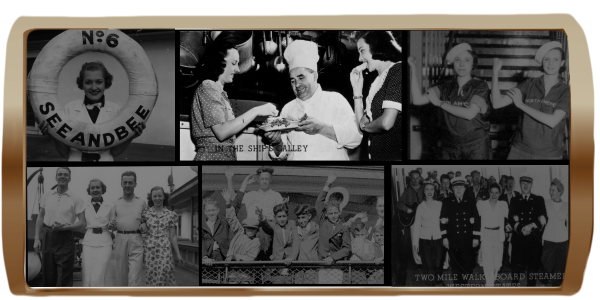
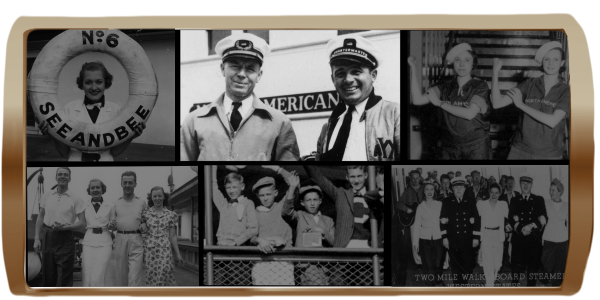
Limited users vs faces in pics, updated gallery images

Changed region(s): [[0.3, 0.09, 0.69, 0.96]]

diff --git a/Resources/JS/selectors.js b/Resources/JS/selectors.js
@@ -10,6 +10,7 @@ var giftshopping = false;
 
 var canvas;
 var data;
+var usersSupported = 3;
 
 //This array holds the filename for each possible image selection
 var previewArr = new Array();
@@ -273,9 +274,6 @@ var draw = function( id ){
 		  hoverClass: "dragAnchor-hover",
 	      drop: function( event, ui ) {
 			$(".ui-draggable-dragging").remove();
-			
-			console.log("draggable:");
-			console.log(ui.draggable);
 			ui.draggable.draggable( 'disable' );
 			
 			$this = $(this);
@@ -285,7 +283,6 @@ var draw = function( id ){
 			var faceID = $(event.target).attr("faceID");
 			
 			var srcID = +$dropped.attr("srcid");
-			console.log("Image with srcID "+srcID+" dropped;");
 			savedPics[srcID].faceID = faceID;
 			settings.request.sources = savedPics;
 			
@@ -396,45 +393,61 @@ var bindNumUsers = function() {
 	$(".numUsersBtn").click(function(e) {
 		switch (phase) {
 			case 1:
-				$("#popup-exterior-id").addClass("glow");
-				setTimeout(function(){
-					$("#popup-exterior-id").removeClass("glow");
-				},120);
-				$(".numUsersBtn").removeClass("selected");
-				$(".numUsersBtn").addClass("notselected");
-				$("#warning").empty().append("Currently only one person can be in each picture, check back soon!");
-
+				//Checks which number of users was clicked, check against capacity of chosen photo
+				var pastUsers = users;
 				if ($(this).hasClass("one")) {
-					$( this ).toggleClass("selected");
-					$( this ).removeClass("notselected");
-					$(".numUsersBtn.selected").css("opacity", 1);
-					$(".numUsersBtn.notselected").css("opacity", 0.5);
-					$("#popup-interior-id").empty().prepend("Choose which<br/>photograph you want!");
-					$(".gallery").addClass("lit");
 					users = 1;
 				} else if ($(this).hasClass("two")) {
-					$( this ).toggleClass("selected");
-					$( this ).removeClass("notselected");
-					$(".numUsersBtn.selected").css("opacity", 1);
-					$(".numUsersBtn.notselected").css("opacity", 0.5);
-					$("#popup-interior-id").empty().prepend("Choose which<br/>photograph you want!");
-					$(".gallery").addClass("lit");
 					users = 2;
 				} else if ($(this).hasClass("three")) {
-					$( this ).toggleClass("selected");
-					$( this ).removeClass("notselected");
-					$(".numUsersBtn.selected").css("opacity", 1);
-					$(".numUsersBtn.notselected").css("opacity", 0.5);
-					$("#popup-interior-id").empty().prepend("Choose which<br/>photograph you want!");
-					$(".gallery").addClass("lit");
 					users = 3;
 				}
+				
+				if (usersSupported < users) {
+					$("#warning").empty().append("You have too many people for this image!<br/><br/>Please select a photo with more faces.")
+					$( "#warning" ).dialog( "open" );
+					users = pastUsers;
+				} else {
+					$("#popup-exterior-id").addClass("glow");
+					setTimeout(function(){
+						$("#popup-exterior-id").removeClass("glow");
+					},120);
+					$(".numUsersBtn").removeClass("selected");
+					$(".numUsersBtn").addClass("notselected");
+					$("#warning").empty().append("Currently only one person can be in each picture, check back soon!");
 
-				console.log("Num Users: " + users);
+					if ($(this).hasClass("one")) {
+						$( this ).toggleClass("selected");
+						$( this ).removeClass("notselected");
+						$(".numUsersBtn.selected").css("opacity", 1);
+						$(".numUsersBtn.notselected").css("opacity", 0.5);
+						$("#popup-interior-id").empty().prepend("Choose which<br/>photograph you want!");
+						$(".gallery").addClass("lit");
+						users = 1;
+					} else if ($(this).hasClass("two")) {
+						$( this ).toggleClass("selected");
+						$( this ).removeClass("notselected");
+						$(".numUsersBtn.selected").css("opacity", 1);
+						$(".numUsersBtn.notselected").css("opacity", 0.5);
+						$("#popup-interior-id").empty().prepend("Choose which<br/>photograph you want!");
+						$(".gallery").addClass("lit");
+						users = 2;
+					} else if ($(this).hasClass("three")) {
+						$( this ).toggleClass("selected");
+						$( this ).removeClass("notselected");
+						$(".numUsersBtn.selected").css("opacity", 1);
+						$(".numUsersBtn.notselected").css("opacity", 0.5);
+						$("#popup-interior-id").empty().prepend("Choose which<br/>photograph you want!");
+						$(".gallery").addClass("lit");
+						users = 3;
+					}
 
+					console.log("Num Users: " + users);
 
-
-				checkReady();
+					checkReady();
+				}
+			
+				
 
 				break;
 		}
@@ -446,44 +459,53 @@ var bindGallery = function(){
 	$(".galleryImage").click(function(e) {
 		switch (phase) {
 			case 1:
-				$("#popup-exterior-id").addClass("glow");
-				setTimeout(function(){
-					$("#popup-exterior-id").removeClass("glow");
-				},120);
-				$("#popup-interior-id").empty().prepend("Choose which<br/>photograph you want!");
-				$(".galleryImage").removeClass("selected");
-				$(".galleryImage").addClass("notselected");
-				$( this ).toggleClass("selected");
-				$( this ).removeClass("notselected");
-				$(".contentLabel").removeClass("choose");
-				$(".contentLabel").addClass("takePic");
+				usersSupported = $(this).attr('users');
+				
+				if (usersSupported < users) {
+					$("#warning").empty().append("You have too many people for this image!<br/>Please select a photo with more faces.")
+					$( "#warning" ).dialog( "open" );
+				} else {
+					$("#popup-exterior-id").addClass("glow");
+					setTimeout(function(){
+						$("#popup-exterior-id").removeClass("glow");
+					},120);
+					$("#popup-interior-id").empty().prepend("Choose which<br/>photograph you want!");
+					$(".galleryImage").removeClass("selected");
+					$(".galleryImage").addClass("notselected");
+					$( this ).toggleClass("selected");
+					$( this ).removeClass("notselected");
+					$(".contentLabel").removeClass("choose");
+					$(".contentLabel").addClass("takePic");
 
-				var imageId = $(this).attr('id');
-				$(".gallery").removeClass("lit one two three four five six");
+					var imageId = $(this).attr('id');
+					$(".gallery").removeClass("lit one two three four five six");
 
 
-				$("#warning").empty().append("This picture isn't supported yet, check back soon!");
-				if (imageId == 0) {
-					$(".gallery").addClass("one");
-					settings.request.tgImageID = imageId;
-				} else if (imageId == 1) {
-					$(".gallery").addClass("two");
-					settings.request.tgImageID = imageId;
-				} else if (imageId == 2) {
-					$(".gallery").addClass("three");
-					settings.request.tgImageID = imageId;
-				} else if (imageId == 3) {
-					$(".gallery").addClass("six");
-					settings.request.tgImageID = imageId;
-				} else if (imageId == 4) {
-					$(".gallery").addClass("four");
-					settings.request.tgImageID = imageId;
-				} else if (imageId == 5) {
-					$(".gallery").addClass("five");
-					settings.request.tgImageID = imageId;
+					$("#warning").empty().append("This picture isn't supported yet, check back soon!");
+					if (imageId == 0) {
+						$(".gallery").addClass("one");
+						settings.request.tgImageID = imageId;
+					} else if (imageId == 1) {
+						$(".gallery").addClass("two");
+						settings.request.tgImageID = imageId;
+					} else if (imageId == 2) {
+						$(".gallery").addClass("three");
+						settings.request.tgImageID = imageId;
+					} else if (imageId == 3) {
+						$(".gallery").addClass("six");
+						settings.request.tgImageID = imageId;
+					} else if (imageId == 4) {
+						$(".gallery").addClass("four");
+						settings.request.tgImageID = imageId;
+					} else if (imageId == 5) {
+						$(".gallery").addClass("five");
+						settings.request.tgImageID = imageId;
+					}
+
+					checkReady();
 				}
-
-				checkReady();
+				
+				
 
 				break;
 		}
@@ -523,6 +545,7 @@ function bindClick() {
 				} else if ($( ".retake .popup-interior" ).hasClass("selected") == false){
 					picsTaken--;
 					savedPics.pop();
+					p.cam.deleteLast();
 					//$( ".retake .popup-interior" ).css("color", "#DAA520");
 					//$( ".retake .popup-interior" ).css("-webkit-text-stroke-color", "#DAA520");
 					$( ".nextBtn" ).removeClass("selected");
@@ -639,6 +662,7 @@ function flash(flashInterval) {
 		p.snap().then(function(d){
 			picsTaken++;
 			console.log("picsTaken: " + picsTaken);
+			console.log(d);
 			savedPics = d.sources; //WRN => if you are keeping a "local" copy, make sure to keep it in sync with settings.request;
 			var loadUrl = "url("+settings.getImageURL(picsTaken-1)+")";
 			$("#snap").css("background-image", loadUrl);

diff --git a/Resources/index.html b/Resources/index.html
@@ -32,12 +32,12 @@
 		
 		<div id="footer">
 			<div class="gallery flex-gallery">
-				<div class="galleryImage" id="4">Image4</div>
-				<div class="galleryImage" id="5">Image5</div>
-				<div class="galleryImage" id="3">Image6</div>
-				<div class="galleryImage" id="0">Image1</div>
-				<div class="galleryImage" id="1">Image2</div>
-				<div class="galleryImage" id="2">Image3</div>
+				<div class="galleryImage" id="4" users="3">Image4</div>
+				<div class="galleryImage" id="5" users="3">Image5</div>
+				<div class="galleryImage" id="3" users="3">Image6</div>
+				<div class="galleryImage" id="0" users="1">Image1</div>
+				<div class="galleryImage" id="1" users="2">Image2</div>
+				<div class="galleryImage" id="2" users="2">Image3</div>
 			</div>
 			
 			<div id="nextLabel-id-ext" class="popup-exterior"><div id="nextLabel-id" class="popup-interior">Next<br/><div class="nextBtn"></div></div></div>	
